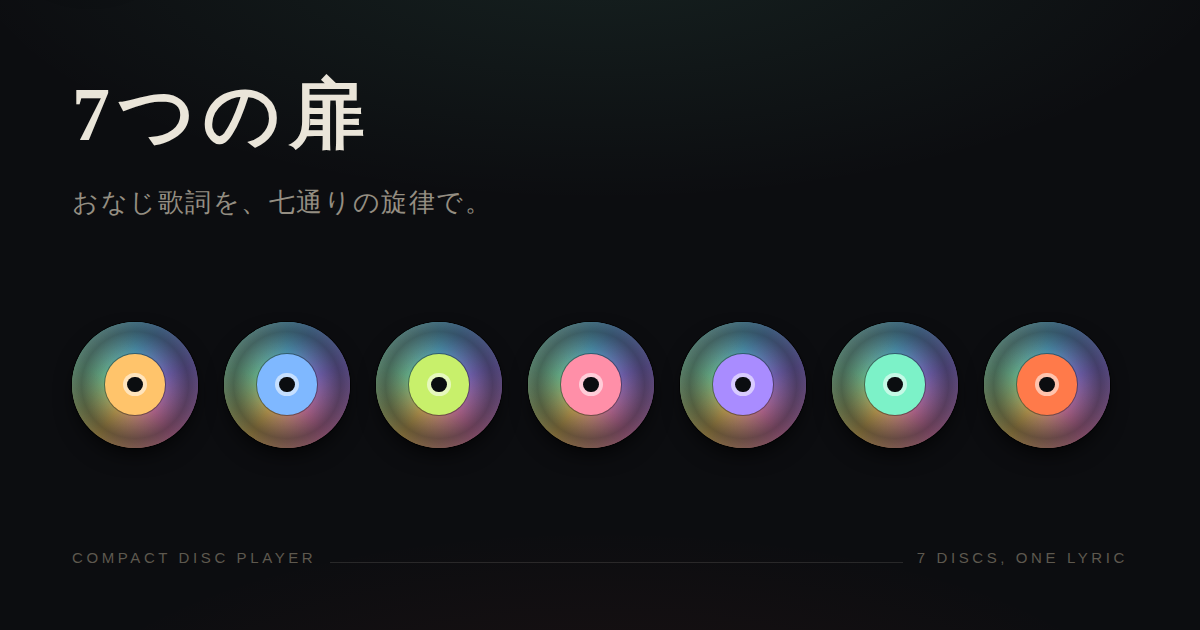
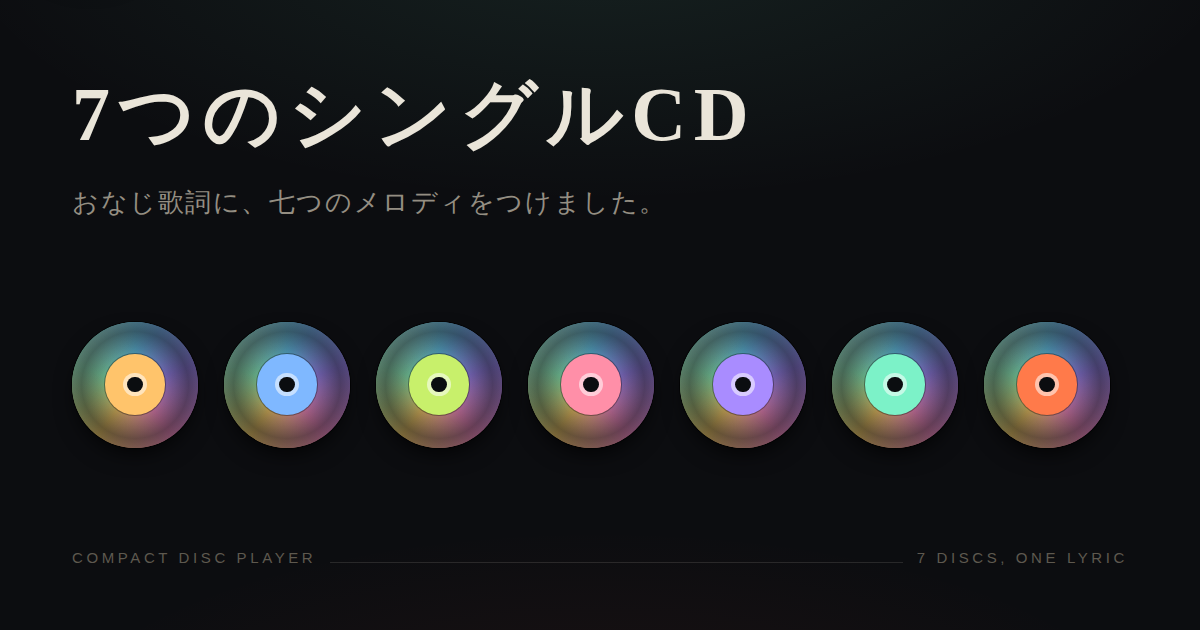
題名を「7つのシングルCD」に改め、起動時はカラーバーから絵に切り替える
- 見出し・タブ名・ホーム画面名・OG画像・READMEを「7つのシングルCD」に統一
- 説明文を「おなじ歌詞に、七つのメロディをつけました。すきなディスクをえらぶと、デッキに入って流れます。」に
- 電源を入れた直後は1.5秒カラーバーを映し、砂嵐をはさんで「結婚おめでとう」の絵へ

Claude-Session: https://claude.ai/code/session_01VcGYouknNfMn3zuXxBvM3Q

Changed region(s): [[0.2467, 0.1206, 0.6475, 0.2413], [0.2467, 0.3016, 0.5242, 0.3619], [0.1542, 0.3016, 0.2158, 0.3317]]

diff --git a/index.html b/index.html
@@ -10,14 +10,14 @@
 <link rel="manifest" href="manifest.webmanifest">
 <meta name="apple-mobile-web-app-capable" content="yes">
 <meta name="apple-mobile-web-app-status-bar-style" content="black">
-<meta name="apple-mobile-web-app-title" content="7つの扉">
-<meta property="og:title" content="7つの扉">
-<meta property="og:description" content="おなじ歌詞を、七通りの旋律で。">
+<meta name="apple-mobile-web-app-title" content="7つのシングルCD">
+<meta property="og:title" content="7つのシングルCD">
+<meta property="og:description" content="おなじ歌詞に、七つのメロディをつけました。">
 <meta property="og:type" content="website">
 <meta property="og:url" content="https://roguepink.github.io/cdtukuru/">
 <meta property="og:image" content="https://roguepink.github.io/cdtukuru/assets/og.png">
 <meta name="twitter:card" content="summary_large_image">
-<title>7つの扉</title>
+<title>7つのシングルCD</title>
 <link rel="preconnect" href="https://fonts.googleapis.com">
 <link rel="preconnect" href="https://fonts.gstatic.com" crossorigin>
 <link rel="stylesheet" href="https://fonts.googleapis.com/css2?family=Barlow+Semi+Condensed:wght@500;600;700&family=DotGothic16&family=Shippori+Mincho:wght@500;600&family=Zen+Kaku+Gothic+New:wght@400;500;700&display=swap">
@@ -353,8 +353,8 @@ button{font:inherit;color:inherit;background:none;border:0;cursor:pointer}
 <div class="room"><header class="masthead">
     <div>
       <p class="to" id="dedication" hidden></p>
-      <h1>7つの扉</h1>
-      <p class="sub"><span>おなじ歌詞を、七通りの旋律で。</span> <span>ディスクを選んで、デッキに入れてください。</span></p>
+      <h1>7つのシングルCD</h1>
+      <p class="sub"><span>おなじ歌詞に、七つのメロディをつけました。</span> <span>すきなディスクをえらぶと、デッキに入って流れます。</span></p>
     </div>
   </header>
 
@@ -1014,7 +1014,19 @@ const crt = (()=>{
     g.drawImage(el, dx, dy, dw, dh);
     return { x:Math.max(0,dx), y:Math.max(0,dy), w:Math.min(W,dw), h:Math.min(H,dh) };
   }
-  /* 何も入っていないとき。技術的なカラーバーではなく、贈り物の顔になる絵を映す */
+  /* 電源を入れた直後だけカラーバー。テレビが点いてから、贈り物の絵に切り替わる */
+  const BARS = ['#C0C0C0','#C0C000','#00C0C0','#00C000','#C000C0','#C00000','#0000C0'];
+  let bootUntil = performance.now() + (reduced ? 600 : 1500), booted = false;
+  function bars(){
+    g.globalAlpha = 1;
+    BARS.forEach((c,i)=>{ g.fillStyle = c; g.fillRect(i*W/7, 0, W/7+1, H*.72); });
+    g.fillStyle = '#0B0F12'; g.fillRect(0, H*.72, W, H*.28);
+    g.fillStyle = '#8FA0A8'; g.font = '22px DotGothic16, monospace'; g.textAlign = 'left';
+    g.fillText('NO DISC', 26, H*.72+52);
+    g.textAlign = 'right'; g.fillText('SELECT 01–07', W-26, H*.72+52);
+    g.textAlign = 'left';
+  }
+  /* 何も入っていないとき。贈り物の顔になる絵を映す */
   function idle(){
     g.globalAlpha = 1;
     g.fillStyle = '#05070A'; g.fillRect(0,0,W,H);
@@ -1025,7 +1037,7 @@ const crt = (()=>{
     } else {
       g.fillStyle = '#8FA0A8'; g.font = '26px DotGothic16, "Zen Kaku Gothic New", sans-serif';
       g.textAlign = 'center'; g.textBaseline = 'middle';
-      g.fillText('7つの扉', W/2, H/2); g.textAlign = 'left'; g.textBaseline = 'alphabetic';
+      g.fillText('7つのシングルCD', W/2, H/2); g.textAlign = 'left'; g.textBaseline = 'alphabetic';
     }
     if(GIFT.to) caption(GIFT.to, 40, 22, false);
   }
@@ -1079,7 +1091,13 @@ const crt = (()=>{
     if(now - lastAt < interval) return;
     lastAt = now;
     const ts = (now - t0)/1000;
-    if(!track){ idle(); return; }
+    if(!track){
+      if(!booted){
+        if(now < bootUntil){ bars(); return; }
+        booted = true; flash(320); return;             // カラーバー → 砂嵐 → おめでとう
+      }
+      idle(); return;
+    }
 
     const lv = levels(), energy = lv.energy, live = lv.live;
     const band = i => live ? freqData[i]/255

diff --git a/src/app.html b/src/app.html
@@ -1,4 +1,4 @@
-<title>7つの扉</title>
+<title>7つのシングルCD</title>
 <link rel="preconnect" href="https://fonts.googleapis.com">
 <link rel="preconnect" href="https://fonts.gstatic.com" crossorigin>
 <link rel="stylesheet" href="https://fonts.googleapis.com/css2?family=Barlow+Semi+Condensed:wght@500;600;700&family=DotGothic16&family=Shippori+Mincho:wght@500;600&family=Zen+Kaku+Gothic+New:wght@400;500;700&display=swap">
@@ -334,8 +334,8 @@ button{font:inherit;color:inherit;background:none;border:0;cursor:pointer}
   <header class="masthead">
     <div>
       <p class="to" id="dedication" hidden></p>
-      <h1>7つの扉</h1>
-      <p class="sub"><span>おなじ歌詞を、七通りの旋律で。</span> <span>ディスクを選んで、デッキに入れてください。</span></p>
+      <h1>7つのシングルCD</h1>
+      <p class="sub"><span>おなじ歌詞に、七つのメロディをつけました。</span> <span>すきなディスクをえらぶと、デッキに入って流れます。</span></p>
     </div>
   </header>
 
@@ -995,7 +995,19 @@ const crt = (()=>{
     g.drawImage(el, dx, dy, dw, dh);
     return { x:Math.max(0,dx), y:Math.max(0,dy), w:Math.min(W,dw), h:Math.min(H,dh) };
   }
-  /* 何も入っていないとき。技術的なカラーバーではなく、贈り物の顔になる絵を映す */
+  /* 電源を入れた直後だけカラーバー。テレビが点いてから、贈り物の絵に切り替わる */
+  const BARS = ['#C0C0C0','#C0C000','#00C0C0','#00C000','#C000C0','#C00000','#0000C0'];
+  let bootUntil = performance.now() + (reduced ? 600 : 1500), booted = false;
+  function bars(){
+    g.globalAlpha = 1;
+    BARS.forEach((c,i)=>{ g.fillStyle = c; g.fillRect(i*W/7, 0, W/7+1, H*.72); });
+    g.fillStyle = '#0B0F12'; g.fillRect(0, H*.72, W, H*.28);
+    g.fillStyle = '#8FA0A8'; g.font = '22px DotGothic16, monospace'; g.textAlign = 'left';
+    g.fillText('NO DISC', 26, H*.72+52);
+    g.textAlign = 'right'; g.fillText('SELECT 01–07', W-26, H*.72+52);
+    g.textAlign = 'left';
+  }
+  /* 何も入っていないとき。贈り物の顔になる絵を映す */
   function idle(){
     g.globalAlpha = 1;
     g.fillStyle = '#05070A'; g.fillRect(0,0,W,H);
@@ -1006,7 +1018,7 @@ const crt = (()=>{
     } else {
       g.fillStyle = '#8FA0A8'; g.font = '26px DotGothic16, "Zen Kaku Gothic New", sans-serif';
       g.textAlign = 'center'; g.textBaseline = 'middle';
-      g.fillText('7つの扉', W/2, H/2); g.textAlign = 'left'; g.textBaseline = 'alphabetic';
+      g.fillText('7つのシングルCD', W/2, H/2); g.textAlign = 'left'; g.textBaseline = 'alphabetic';
     }
     if(GIFT.to) caption(GIFT.to, 40, 22, false);
   }
@@ -1060,7 +1072,13 @@ const crt = (()=>{
     if(now - lastAt < interval) return;
     lastAt = now;
     const ts = (now - t0)/1000;
-    if(!track){ idle(); return; }
+    if(!track){
+      if(!booted){
+        if(now < bootUntil){ bars(); return; }
+        booted = true; flash(320); return;             // カラーバー → 砂嵐 → おめでとう
+      }
+      idle(); return;
+    }
 
     const lv = levels(), energy = lv.energy, live = lv.live;
     const band = i => live ? freqData[i]/255

diff --git a/tools/card.html b/tools/card.html
@@ -33,8 +33,8 @@
 <div id="icon"><span class="disc" style="--c:#FFC46B"><span class="label"></span></span></div>
 <div id="og">
   <div>
-    <h1>7つの扉</h1>
-    <p>おなじ歌詞を、七通りの旋律で。</p>
+    <h1>7つのシングルCD</h1>
+    <p>おなじ歌詞に、七つのメロディをつけました。</p>
   </div>
   <div class="row">
     <span class="disc" style="--c:#FFC46B"><span class="label"></span></span>

diff --git a/tools/sync.html b/tools/sync.html
@@ -3,7 +3,7 @@
 <head>
 <meta charset="utf-8">
 <meta name="viewport" content="width=device-width, initial-scale=1">
-<title>歌詞あわせ — 7つの扉</title>
+<title>歌詞あわせ — 7つのシングルCD</title>
 <link rel="stylesheet" href="https://fonts.googleapis.com/css2?family=Barlow+Semi+Condensed:wght@600&family=Shippori+Mincho:wght@500&family=Zen+Kaku+Gothic+New:wght@400;500;700&display=swap">
 <style>
   :root{

diff --git a/tools/build.py b/tools/build.py
@@ -17,9 +17,9 @@ doc = (
     "<link rel=\"manifest\" href=\"manifest.webmanifest\">\n"
     "<meta name=\"apple-mobile-web-app-capable\" content=\"yes\">\n"
     "<meta name=\"apple-mobile-web-app-status-bar-style\" content=\"black\">\n"
-    "<meta name=\"apple-mobile-web-app-title\" content=\"7つの扉\">\n"
-    f"<meta property=\"og:title\" content=\"7つの扉\">\n"
-    "<meta property=\"og:description\" content=\"おなじ歌詞を、七通りの旋律で。\">\n"
+    "<meta name=\"apple-mobile-web-app-title\" content=\"7つのシングルCD\">\n"
+    f"<meta property=\"og:title\" content=\"7つのシングルCD\">\n"
+    "<meta property=\"og:description\" content=\"おなじ歌詞に、七つのメロディをつけました。\">\n"
     "<meta property=\"og:type\" content=\"website\">\n"
     f"<meta property=\"og:url\" content=\"{SITE}/\">\n"
     f"<meta property=\"og:image\" content=\"{SITE}/assets/og.png\">\n"

diff --git a/README.md b/README.md
@@ -1,4 +1,4 @@
-# 7つの扉
+# 7つのシングルCD
 
 同じ歌詞を七通りの旋律で贈るための、プレゼント用ミュージックプレイヤー（試作 v0.1）。
 
